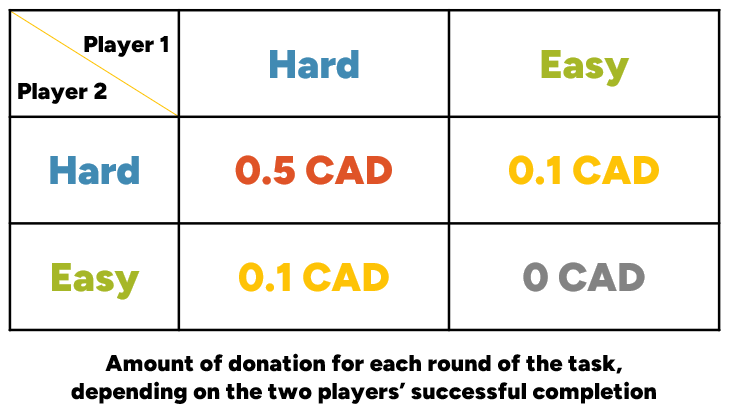
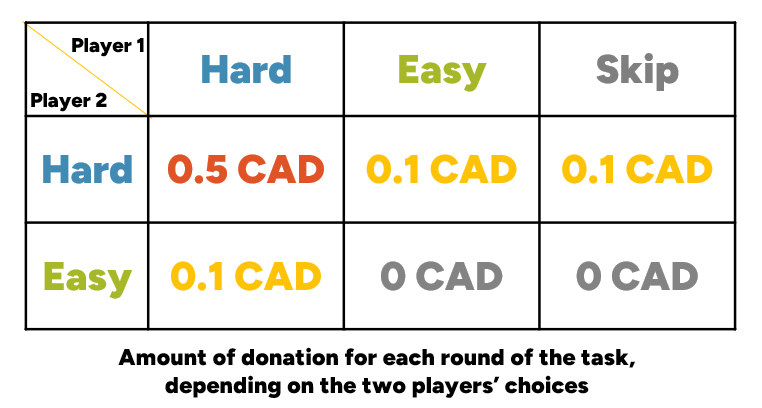
modification
change the matrix image
Changed pretrial instructions
Added finish_page variable

Changed region(s): [[0.0, 0.0, 0.9905, 0.8256], [0.09, 0.855, 0.9004, 1.0]]

diff --git a/index.html b/index.html
@@ -11,6 +11,7 @@
         <script src="jspsych/plugin-survey-text.js"></script>
         <script src="jspsych/plugin-call-function.js"></script>
         <script src="jspsych/plugin-preload.js"></script>
+        <script src="jspsych/plugin-html-keyboard-response.js"></script>
         <link href="jspsych/jspsych.css" rel="stylesheet" type="text/css" />
         <link href="forms/image/favicon.ico" rel="icon" type="image/x-icon"
     </head>
@@ -133,7 +134,6 @@
                 <p>We know you and your partner care about making the environment better and 
                 are willing to put in the effort to support environmental NGOs like Tree Canada. Your actions can directly contribute to this cause. 
                 It is up to you to choose a hard or easy version, and you also have the option to discontinue at any time or move to the next round. 
-                <p> When you finish, please press the button next to your computer to let your experimenter know. </p>
                 <p>If you are ready for the actual task, please fill in your participant ID and proceed to the next page.</p>
                 </div>
                 `,
@@ -149,10 +149,12 @@
         var pre_trial1={
             type:jsPsychSurveyMultiChoice,
             questions:[{
-                prompt:`<div style="max-width: 800px; margin: auto; text-align: left; line-height: 1.6;">
+                prompt:`<div style="max-width: 900px; margin: auto; text-align: left; line-height: 1.6;">
                 <p>The next round is the <b>1st</b> one. It will contain 20 numbers, and you will have 30 seconds to complete 
-                if you choose the hard or easy version. You can also jump to the next round by choosing Skip.</p>
-                Please choose to complete the hard version or easy version, or skip`,
+                if you choose the hard or easy version. You can also jump to the next round by choosing Skip.
+                If you decide to do the hard version, please do so throughly because we can only count pages that are at least 90% correct.
+                </p>
+                <p>Please choose to complete the hard version or easy version, or skip.</p>`,
                 name:"pre_trial1",
                 options:['Hard version','Easy version','Skip'],
                 required:true
@@ -227,10 +229,12 @@
         var pre_trial2={
             type:jsPsychSurveyMultiChoice,
             questions:[{
-                prompt:`<div style="max-width: 800px; margin: auto; text-align: left; line-height: 1.6;">
+                prompt:`<div style="max-width: 900px; margin: auto; text-align: left; line-height: 1.6;">
                 <p>The next round is the <b>2nd</b> one. It will contain 20 numbers, and you will have 30 seconds to complete 
-                if you choose the hard or easy version. You can also jump to the next round by choosing Skip.</p>
-                Please choose to complete the hard version or easy version, or skip`,
+                if you choose the hard or easy version. You can also jump to the next round by choosing Skip.
+                If you decide to do the hard version, please do so throughly because we can only count pages that are at least 90% correct.
+                </p>
+                <p>Please choose to complete the hard version or easy version, or skip.</p>`,
                 name:"pre_trial2",
                 options:['Hard version','Easy version','Skip'],
                 required:true
@@ -304,10 +308,12 @@
         var pre_trial3={
             type:jsPsychSurveyMultiChoice,
             questions:[{
-                prompt:`<div style="max-width: 800px; margin: auto; text-align: left; line-height: 1.6;">
+                prompt:`<div style="max-width: 900px; margin: auto; text-align: left; line-height: 1.6;">
                 <p>The next round is the <b>3rd</b> one. It will contain 20 numbers, and you will have 30 seconds to complete 
-                if you choose the hard or easy version. You can also jump to the next round by choosing Skip.</p>
-                Please choose to complete the hard version or easy version, or skip`,
+                if you choose the hard or easy version. You can also jump to the next round by choosing Skip.
+                If you decide to do the hard version, please do so throughly because we can only count pages that are at least 90% correct.
+                </p>
+                <p>Please choose to complete the hard version or easy version, or skip. </p>`,
                 name:"pre_trial3",
                 options:['Hard version','Easy version','Skip'],
                 required:true
@@ -379,13 +385,16 @@
             }
         };
 
+        // trial 4
         var pre_trial4={
             type:jsPsychSurveyMultiChoice,
              questions:[{
-                prompt:`<div style="max-width: 800px; margin: auto; text-align: left; line-height: 1.6;">
+                prompt:`<div style="max-width: 900px; margin: auto; text-align: left; line-height: 1.6;">
                 <p>The next round is the <b>4th</b> one. It will contain 20 numbers, and you will have 30 seconds to complete 
-                if you choose the hard or easy version. You can also jump to the next round by choosing Skip.</p>
-                Please choose to complete the hard version or easy version, or skip`,
+                if you choose the hard or easy version. You can also jump to the next round by choosing Skip.
+                If you decide to do the hard version, please do so throughly because we can only count pages that are at least 90% correct.
+                </p>
+                <p>Please choose to complete the hard version or easy version, or skip. </p>`,
                 name:"pre_trial4",
                 options:['Hard version','Easy version','Skip'],
                 required:true
@@ -457,10 +466,12 @@
         var pre_trial5={
             type:jsPsychSurveyMultiChoice,
             questions:[{
-                prompt:`<div style="max-width: 800px; margin: auto; text-align: left; line-height: 1.6;">
+                prompt:`<div style="max-width: 900px; margin: auto; text-align: left; line-height: 1.6;">
                 <p>The next round is the <b>5th</b> one. It will contain 20 numbers, and you will have 30 seconds to complete 
-                if you choose the hard or easy version. You can also jump to the next round by choosing Skip.</p>
-                Please choose to complete the hard version or easy version, or skip`,
+                if you choose the hard or easy version. You can also jump to the next round by choosing Skip.
+                If you decide to do the hard version, please do so throughly because we can only count pages that are at least 90% correct.
+                </p>
+                <p>Please choose to complete the hard version or easy version, or skip. </p>`,
                 name:"pre_trial5",
                 options:['Hard version','Easy version','Skip'],
                 required:true
@@ -531,10 +542,12 @@
         var pre_trial6={
             type:jsPsychSurveyMultiChoice,
             questions:[{
-                prompt:`<div style="max-width: 800px; margin: auto; text-align: left; line-height: 1.6;">
+                prompt:`<div style="max-width: 900px; margin: auto; text-align: left; line-height: 1.6;">
                 <p>The next round is the <b>6th</b> one. It will contain 20 numbers, and you will have 30 seconds to complete 
-                if you choose the hard or easy version. You can also jump to the next round by choosing Skip.</p>
-                Please choose to complete the hard version or easy version, or skip`,
+                if you choose the hard or easy version. You can also jump to the next round by choosing Skip.
+                If you decide to do the hard version, please do so throughly because we can only count pages that are at least 90% correct.
+                </p>
+                <p>Please choose to complete the hard version or easy version, or skip. </p>`,
                 name:"pre_trial6", // change accordingly
                 options:['Hard version','Easy version','Skip'],
                 required:true
@@ -605,10 +618,12 @@
         var pre_trial7={//change
             type:jsPsychSurveyMultiChoice,
             questions:[{
-                prompt:`<div style="max-width: 800px; margin: auto; text-align: left; line-height: 1.6;">
+                prompt:`<div style="max-width: 900px; margin: auto; text-align: left; line-height: 1.6;">
                 <p>The next round is the <b>7th</b> one. It will contain 20 numbers, and you will have 30 seconds to complete 
-                if you choose the hard or easy version. You can also jump to the next round by choosing Skip.</p>
-                Please choose to complete the hard version or easy version, or skip`,//change order
+                if you choose the hard or easy version. You can also jump to the next round by choosing Skip.
+                If you decide to do the hard version, please do so throughly because we can only count pages that are at least 90% correct.
+                </p>
+                <p>Please choose to complete the hard version or easy version, or skip. </p>`,//change order
                 name:"pre_trial7", // change accordingly
                 options:['Hard version','Easy version','Skip'],
                 required:true
@@ -679,10 +694,12 @@
         var pre_trial8={
             type:jsPsychSurveyMultiChoice,
             questions:[{
-                prompt:`<div style="max-width: 800px; margin: auto; text-align: left; line-height: 1.6;">
+                prompt:`<div style="max-width: 900px; margin: auto; text-align: left; line-height: 1.6;">
                 <p>The next round is the <b>8th</b> one. It will contain 20 numbers, and you will have 30 seconds to complete 
-                if you choose the hard or easy version. You can also jump to the next round by choosing Skip.</p>
-                Please choose to complete the hard version or easy version, or skip`,//change order
+                if you choose the hard or easy version. You can also jump to the next round by choosing Skip.
+                If you decide to do the hard version, please do so throughly because we can only count pages that are at least 90% correct.
+                </p>
+                <p>Please choose to complete the hard version or easy version, or skip. </p>`,//change order
                 name:"pre_trial8", // change accordingly
                 options:['Hard version','Easy version','Skip'],
                 required:true
@@ -753,10 +770,12 @@
         var pre_trial9={//change
             type:jsPsychSurveyMultiChoice,
             questions:[{
-                prompt:`<div style="max-width: 800px; margin: auto; text-align: left; line-height: 1.6;">
+                prompt:`<div style="max-width: 900px; margin: auto; text-align: left; line-height: 1.6;">
                 <p>The next round is the <b>9th</b> one. It will contain 20 numbers, and you will have 30 seconds to complete 
-                if you choose the hard or easy version. You can also jump to the next round by choosing Skip.</p>
-                Please choose to complete the hard version or easy version, or skip`,//change order
+                if you choose the hard or easy version. You can also jump to the next round by choosing Skip.
+                If you decide to do the hard version, please do so throughly because we can only count pages that are at least 90% correct.
+                </p>
+                <p>Please choose to complete the hard version or easy version, or skip. </p>`,//change order
                 name:"pre_trial9", // change accordingly
                 options:['Hard version','Easy version','Skip'],
                 required:true
@@ -827,10 +846,11 @@
         var pre_trial10={//change
             type:jsPsychSurveyMultiChoice,
             questions:[{
-                prompt:`<div style="max-width: 800px; margin: auto; text-align: left; line-height: 1.6;">
+                prompt:`<div style="max-width: 900px; margin: auto; text-align: left; line-height: 1.6;">
                 <p>The next round is the <b>10th</b> one. It will contain 20 numbers, and you will have 30 seconds to complete 
-                if you choose the hard or easy version. You can also jump to the next round by choosing Skip.</p>
-                Please choose to complete the hard version or easy version, or skip`,//change order
+                if you choose the hard or easy version. You can also jump to the next round by choosing Skip.
+                If you decide to do the hard version, please do so throughly because we can only count pages that are at least 90% correct.</p>
+                <p>Please choose to complete the hard version or easy version, or skip. </p>`,//change order
                 name:"pre_trial10", // change accordingly
                 options:['Hard version','Easy version','Skip'],
                 required:true
@@ -897,6 +917,14 @@
             }
         };
 
+        var finish_page ={
+            type:jsPsychHtmlKeyboardResponse,
+            stimulus:'',
+            prompt:`<div style="max-width: 900px; margin: auto; text-align: left; line-height: 1.6;">
+            <p>Thank you very much. You have made decisions on all 10 trials. Please press the button next to your computer to let the experimenter know. </p>
+            <p>Now, please press any key on the keyboard to end this experiment. Do not leave the lab room. Please patiently wait for the experimenter. </P>`
+        };
+
          /*create timelime*/
         var timeline = [];
         timeline.push(preload);
@@ -931,6 +959,7 @@
         timeline.push(pre_trial10);
         timeline.push(conditional_trial10H);
         timeline.push(conditional_trial10E);
+        timeline.push(finish_page);
         jsPsych.run(timeline);
     </script>
 </html>
